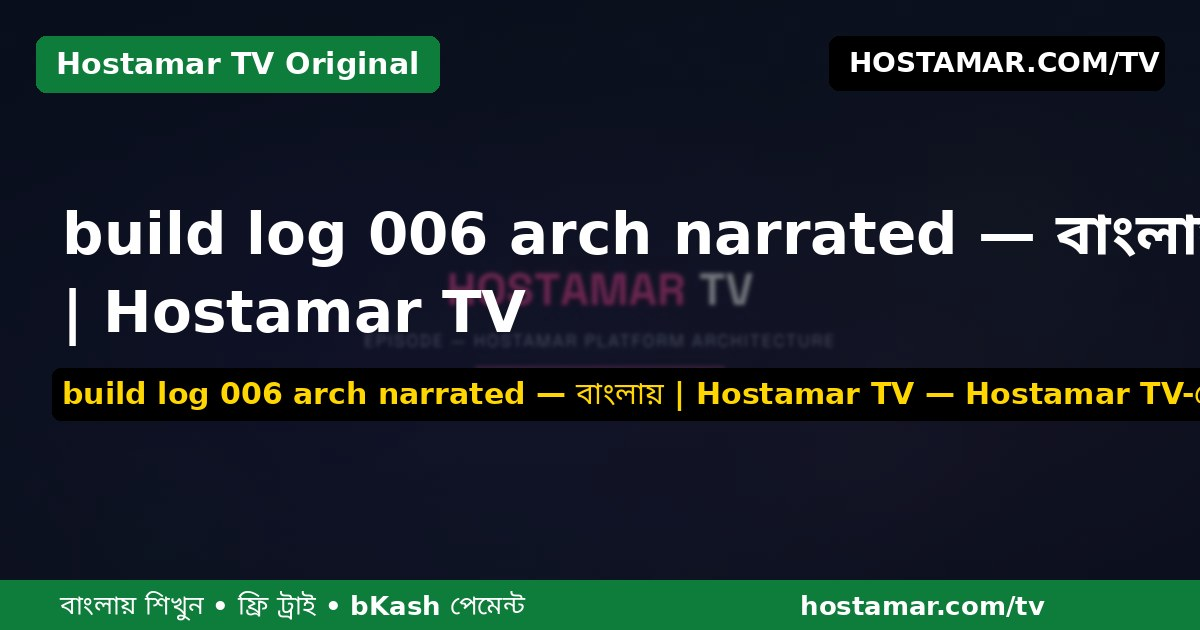
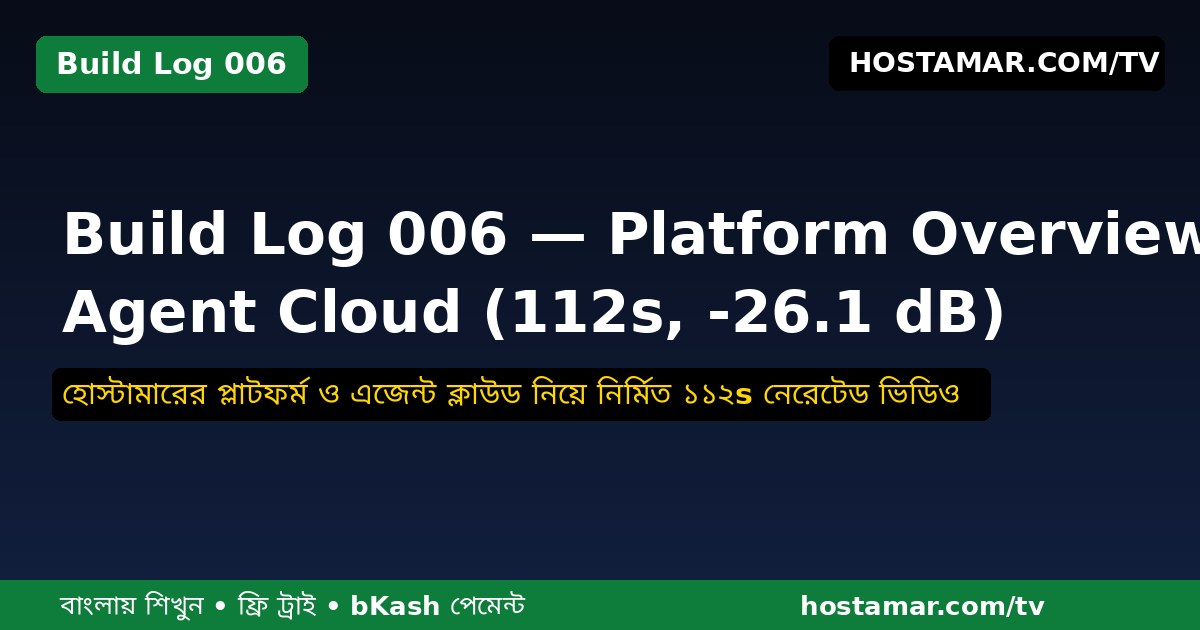
CHANNEL: +2 shelf (build-log-006 narrated + short) + SEO watch pages; shelf 249->251

diff --git a/app/tv/page.tsx b/app/tv/page.tsx
@@ -523,6 +523,8 @@ export default function TvPage() {
                 { f: 'shorts-context-graph.mp4', t: 'Context Graph Short — ৩০s ভার্টিকেল' },
                 { f: 'programme-eu-bd-gpu-spot-narrated.mp4', t: 'EU-BD GPU Spot Market — Narrated (221s, narrated)' },
                 { f: 'build-log-005-narrated.mp4', t: 'Build Log 005 — Infrastructure & Growth (201s, narrated)' },
+                { f: 'build-log-006-arch-narrated.mp4', t: 'Build Log 006 — Platform Overview + AI Agent Cloud (112s, -26.1 dB)' },
+                { f: 'build-log-006-arch-shorts.mp4', t: 'Build Log 006 Short — ৩০s ভার্টিকেল (-28.8 dB)' },
                 { f: 'programme-build-log-007-narrated.mp4', t: 'Build Log 007 — ১০৬ সার্ভিস, ১২০ মডেল, Orca ADE (১৩১s, নেরেশনসহ)' },
                 { f: 'build-log-008-narrated.mp4', t: 'Build Log 008 — Deploy Chains That Lie: rc=0 deploys that shipped nothing (128s, নেরেশনসহ)' },
                 { f: 'shorts-build-log-008.mp4', t: 'Build Log 008 Short — Deploy Chains That Lie (৩০s Vertical)' },
